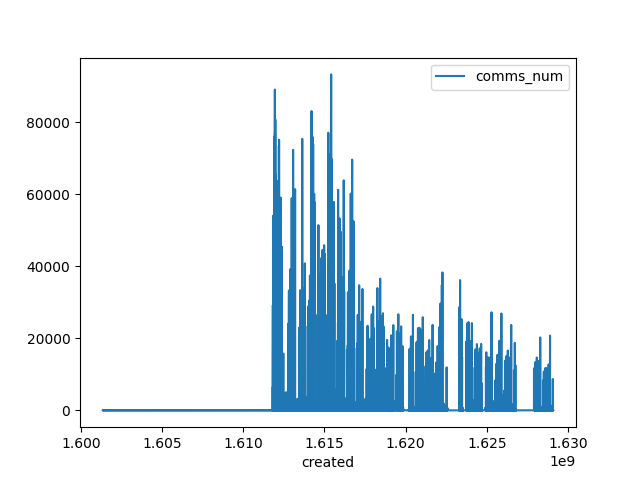
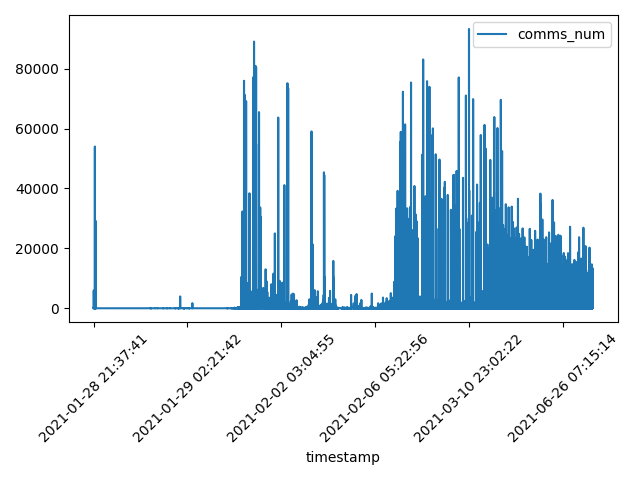
added timestamps

diff --git a/misc/investigate.py b/misc/investigate.py
@@ -9,22 +9,24 @@ file = read_csv(r'../dataset/reddit_wsb.csv')
 tickers = read_excel(r'../dataset/tickers.xlsx')
 tickers_found = read_csv(r'../dataset/ticker_location.csv')
 
-#sorted_comments = file.sort_values(['score'], ascending=False)
-#print(sorted_comments.head(1))
+sorted_comments = file.sort_values(['score'], ascending=False)
+print(sorted_comments.head(1))
 
-#file.plot(x = 'created', y = 'score')
-#plt.savefig('score_over_time.png')
-#file.plot(x='created',y='comms_num')
-#plt.savefig('comments_over_time.png')
-#file.plot(kind='scatter', x='score', y='comms_num')
-#plt.savefig('score_to_comments.png')
+file.plot(x ='timestamp', y = 'score', rot=45)
+plt.tight_layout()
+plt.savefig('score_over_time.png')
+file.plot(x='timestamp',y='comms_num', rot=45)
+plt.tight_layout()
+plt.savefig('comments_over_time.png')
+file.plot(kind='scatter', x='score', y='comms_num')
+plt.savefig('score_to_comments.png')
 
-#c = Counter(" ".join(file["title"]).split()).most_common(100)
-#c = Counter(" ".join(file["title"]).lower().split()).most_common(100)
-#print(c)
+c = Counter(" ".join(file["title"]).split()).most_common(100)
+c = Counter(" ".join(file["title"]).lower().split()).most_common(100)
+print(c)
 
-#print(file['score'].mean())
-#print(file['comms_num'].mean())
+print(file['score'].mean())
+print(file['comms_num'].mean())
 
 # Now we want info about the posts that mention a Ticker
 file = pd.concat([file, tickers_found['Ticker']], axis=1)
@@ -32,20 +34,24 @@ file['isBodyNan'] = file["body"].isnull()
 
 condensed_file = file.dropna(subset=['Ticker'])
 
-#condensed_file.plot(x = 'created', y = 'score')
-#plt.savefig('score_over_time_tick.png')
-#condensed_file.plot(x='created',y='comms_num')
-#plt.savefig('comments_over_time_tick.png')
-#condensed_file.plot(kind='scatter', x='score', y='comms_num')
-#plt.savefig('score_to_comments_tick.png')
+condensed_file.plot(x = 'timestamp', y = 'score', rot=45)
+plt.tight_layout()
+plt.savefig('score_over_time_tick.png')
+condensed_file.plot(x='timestamp',y='comms_num', rot=45)
+plt.tight_layout()
+plt.savefig('comments_over_time_tick.png')
+condensed_file.plot(kind='scatter', x='score', y='comms_num')
+plt.savefig('score_to_comments_tick.png')
 
-#sorted_condensed = condensed_file.sort_values(['score'], ascending=False)
-#print(sorted_condensed.head(1))
+sorted_condensed = condensed_file.sort_values(['score'], ascending=False)
+print(sorted_condensed.head(1))
 
 only_text = condensed_file.dropna(subset=['body'])
-only_text.plot(x = 'created', y = 'score')
+only_text.plot(x = 'timestamp', y = 'score', rot=45)
+plt.tight_layout()
 plt.savefig('score_over_time_text.png')
-only_text.plot(x='created',y='comms_num')
+only_text.plot(x='timestamp',y='comms_num', rot=45)
+plt.tight_layout()
 plt.savefig('comments_over_time_text.png')
 only_text.plot(kind='scatter', x='score', y='comms_num')
 plt.savefig('score_to_comments_text.png')
